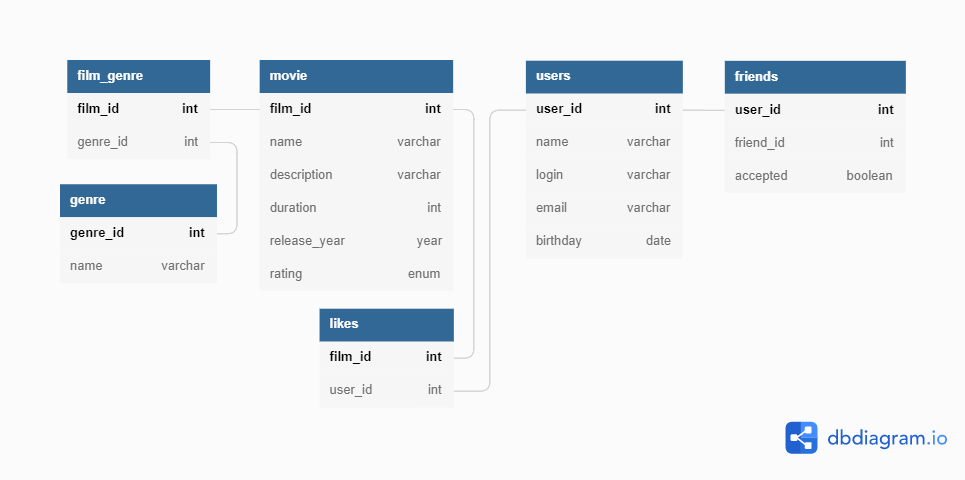
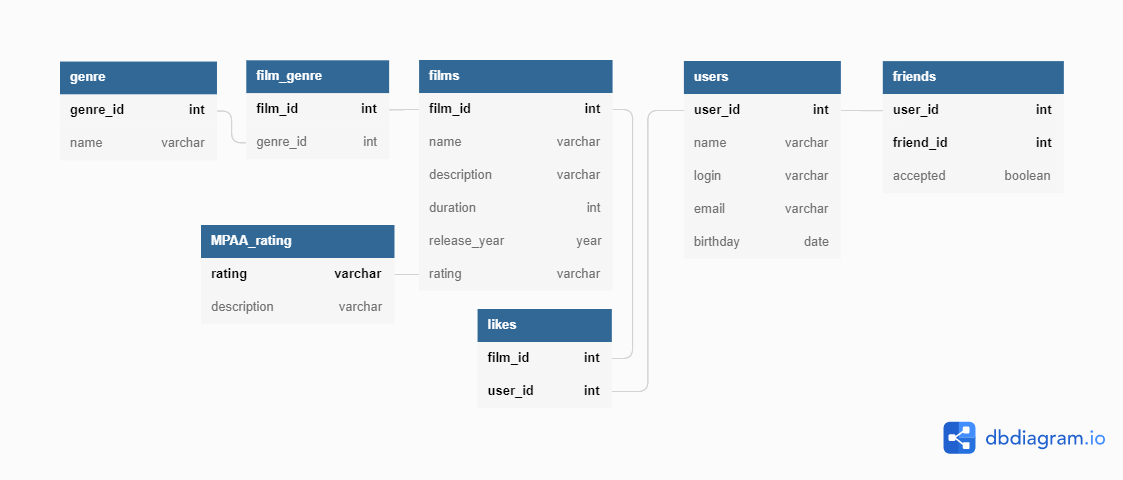
renamed table 'movie' to 'films'

diff --git a/README.md b/README.md
@@ -3,23 +3,23 @@ Filmorate project.
 1. пример запроса для получения списка фильмов с сортировкой по году выпуска от раннего к позднему
 ```SQL
 SELECT name, release_year
-FROM movie
+FROM films
 ORDER BY release_year;
 ```
 2. пример запроса для получения списка фильмов в жанре "триллер" с рейтингом PG13
 ```SQL
-SELECT m.name
-FROM movie AS m
-INNER JOIN film_genre AS fg ON m.film_id = fg.film_id
+SELECT f.name
+FROM films AS f
+INNER JOIN film_genre AS fg ON f.film_id = fg.film_id
 INNER JOIN genre AS g ON fg.genre_id = g.genre_id
-WHERE g.name = 'thriller' AND m.rating = 'PG13'
-ORDER BY m.name;
+WHERE g.name = 'thriller' AND f.rating = 'PG13'
+ORDER BY f.name;
 ```
 3. пример запроса для получения списка топ 10 фильмов с сортировкой по количеству лайков
 ```SQL
-SELECT m.name, COUNT(l.user_id)
-FROM movie AS m
-LEFT OUTER JOIN likes AS l ON m.film_id = l.film_id
+SELECT f.name, COUNT(l.user_id)
+FROM films AS f
+LEFT OUTER JOIN likes AS l ON f.film_id = l.film_id
 ORDER BY COUNT(l.user_id)
 LIMIT 10;
 ```
